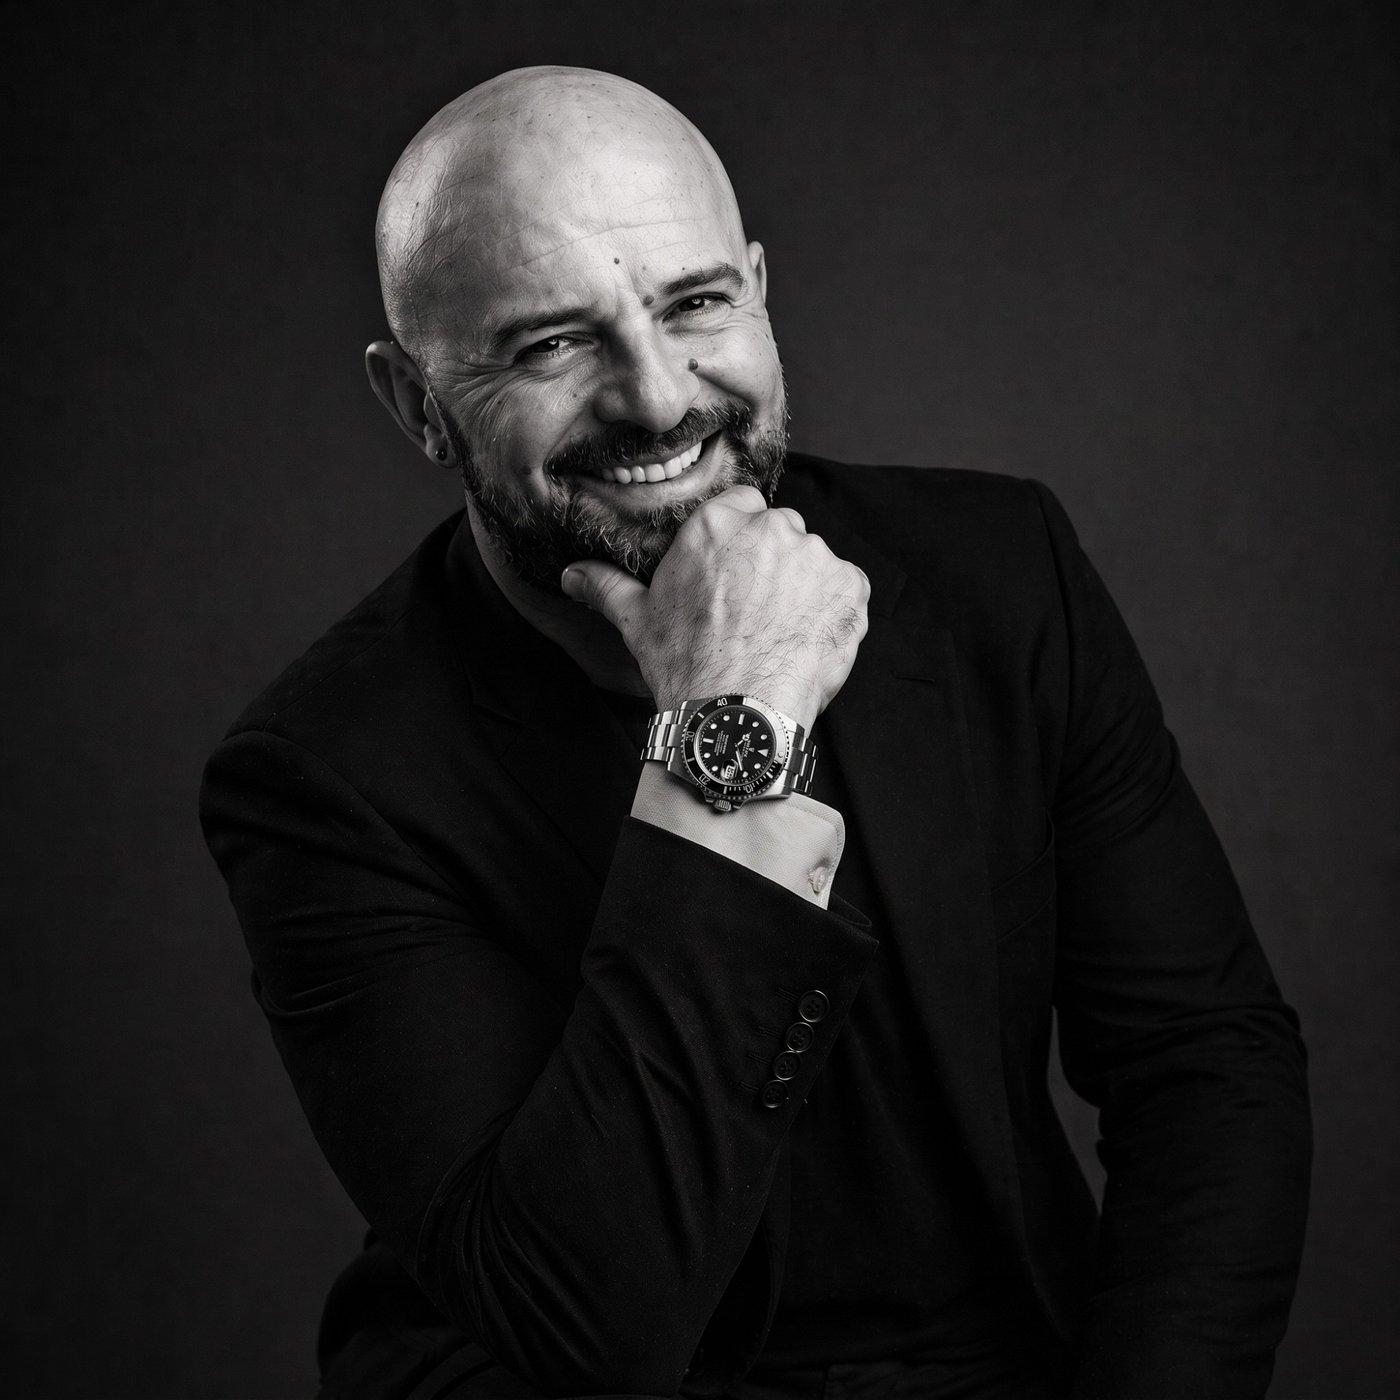
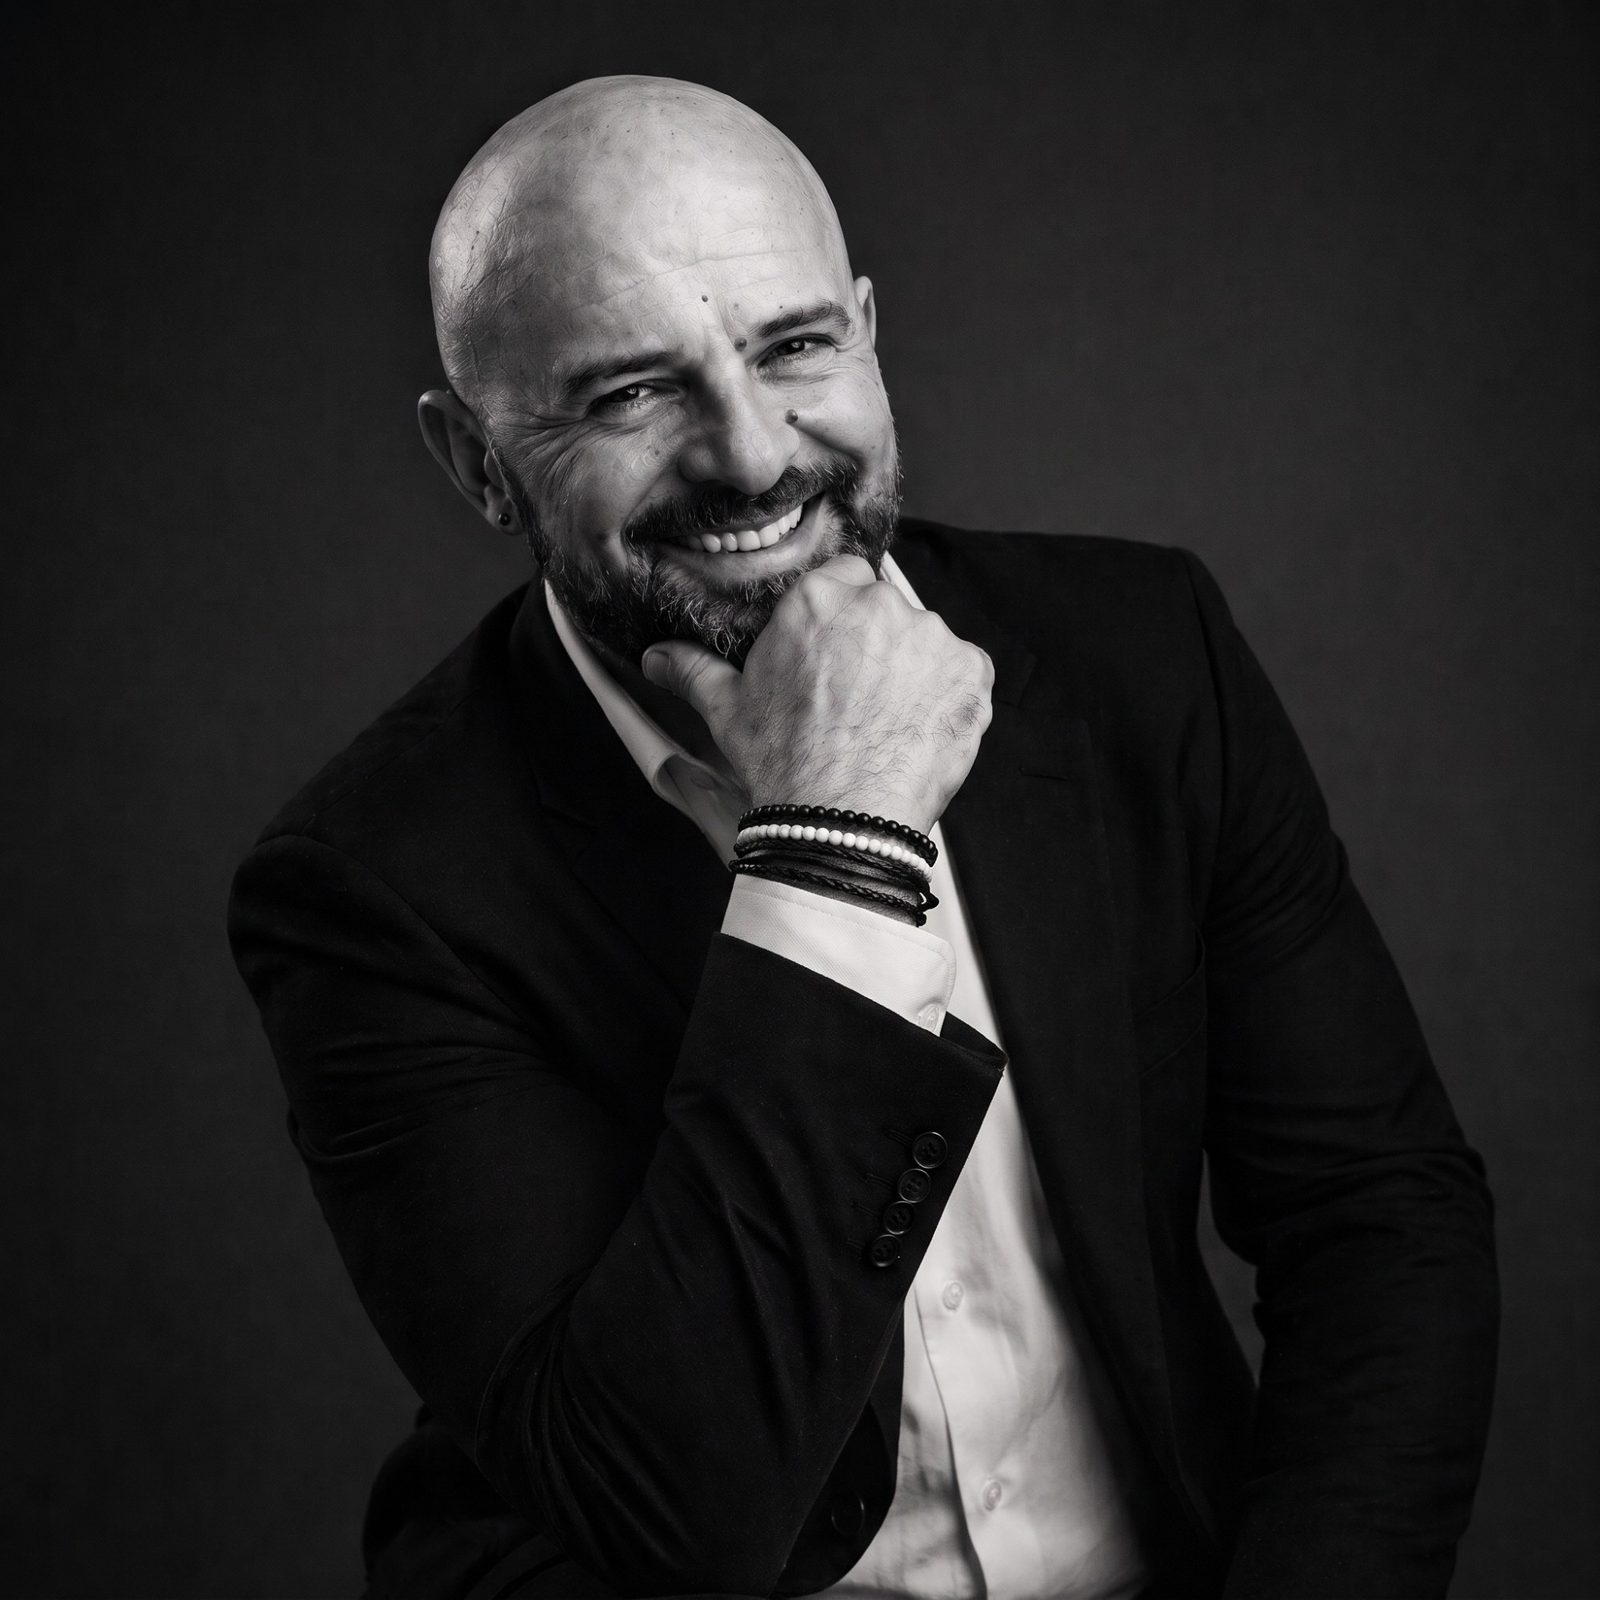
Nuovo ritratto di sfondo e parallasse limitata (niente bordo in basso)

diff --git a/src/components/Backdrop.tsx b/src/components/Backdrop.tsx
@@ -31,7 +31,7 @@ export function Backdrop() {
       if (Math.abs(key - last) < 0.01) return;
       last = key;
       dimRef.current!.style.opacity = String(1 - level);
-      imgRef.current!.style.transform = `translate3d(0, ${-Math.min(y, 6000) * 0.015}px, 0) scale(1.06)`;
+      imgRef.current!.style.transform = `translate3d(0, ${-Math.min(y, 1600) * 0.015}px, 0) scale(1.06)`;
     });
   }, []);
 
@@ -42,8 +42,8 @@ export function Backdrop() {
           ref={imgRef}
           src={import.meta.env.BASE_URL + 'images/emanuele.jpg'}
           alt=""
-          width={1400}
-          height={1400}
+          width={1600}
+          height={1600}
           fetchPriority="high"
           decoding="async"
           className="size-full object-cover object-[42%_0%] will-change-transform md:object-[50%_18%]"
